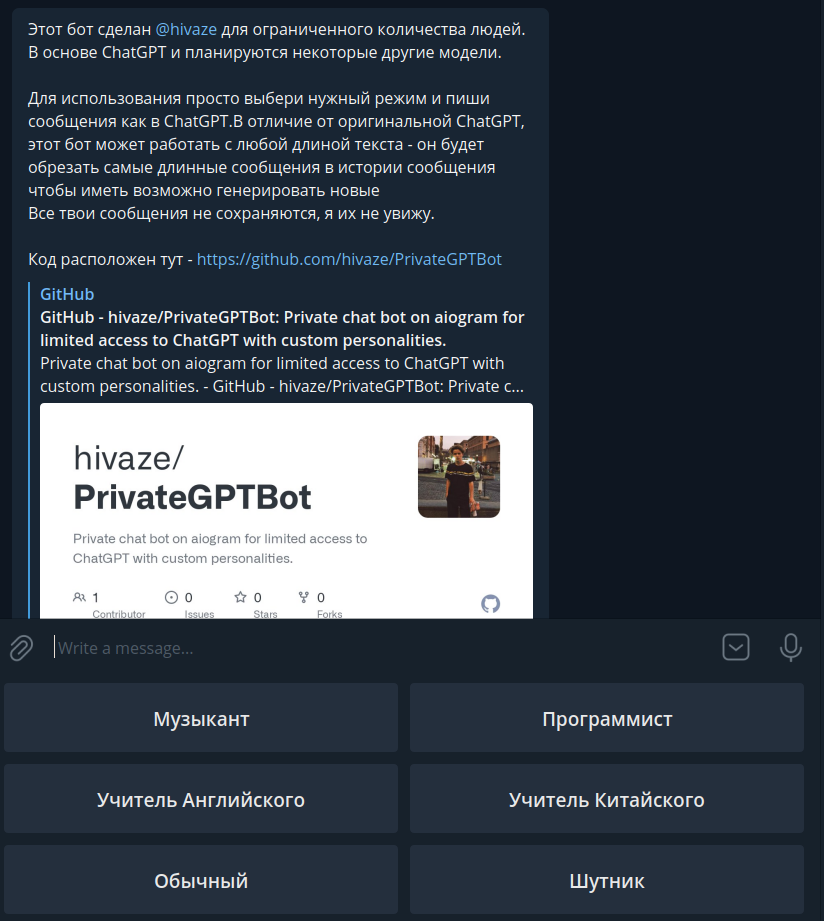
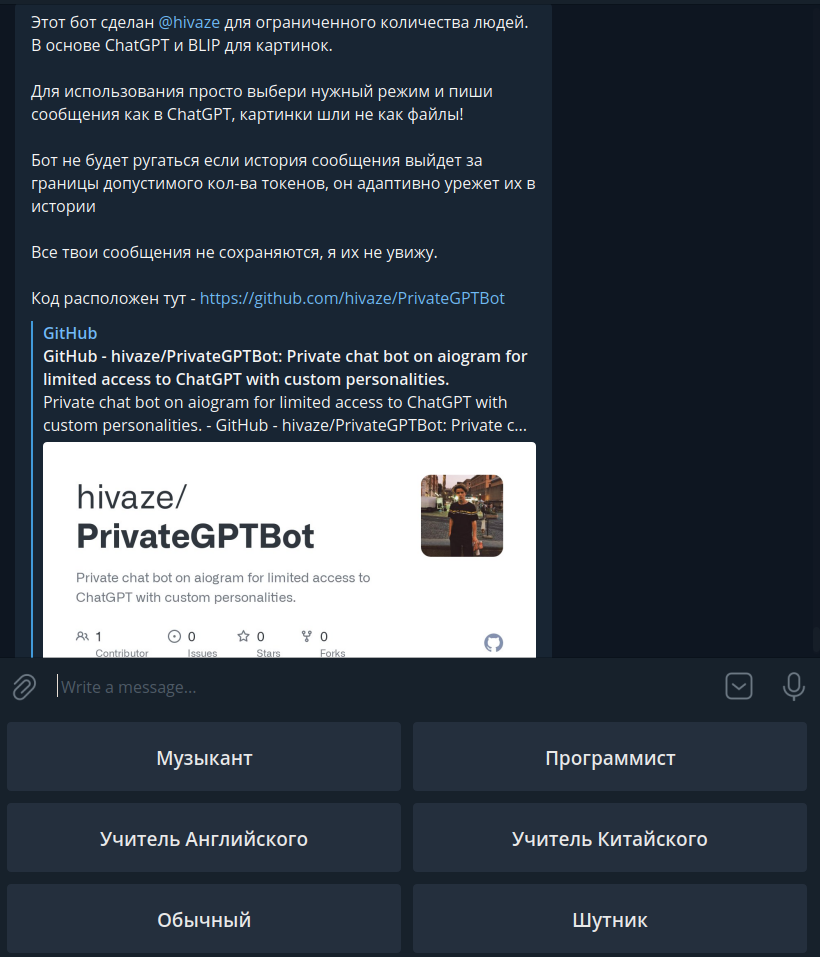
Added messages support! And fixes

diff --git a/app/messages_handler.py b/app/messages_handler.py
@@ -1,9 +1,12 @@
 import asyncio
 import logging
+import tempfile
 
+from PIL import Image
 from aiogram import types
 from aiogram.dispatcher import FSMContext
 
+from app.blip_captions_model import get_images_captions
 from app.bot import dp, CONFIG, PERSONALITIES, UserState, reset_user_state, PERSONALITIES_REPLY_MARKUP, thread_pool
 from app.exceptions_handler import exception_sorry
 from app.open_ai_client import create_message, truncate_user_history, count_tokens
@@ -63,7 +66,7 @@ async def answer(message: types.Message, state: FSMContext, *args, **kwargs):
 
 @dp.message_handler(state=UserState.communication)
 @exception_sorry()
-async def answer(message: types.Message, state: FSMContext, *args, **kwargs):
+async def communication_answer(message: types.Message, state: FSMContext, *args, **kwargs):
     current_data = await state.get_data()
     user_name = message.from_user.username
 
@@ -112,3 +115,43 @@ async def answer(message: types.Message, state: FSMContext, *args, **kwargs):
         logger.debug(f'History of user {message.from_user.username}: {updated_history}')
 
         await state.update_data({'history': updated_history, 'prev_tokens_usage': tokens_usage})
+
+
+@dp.message_handler(state=UserState.communication, content_types=['photo'])
+@exception_sorry()
+async def answer(message: types.Message, state: FSMContext, *args, **kwargs):
+
+    current_data = await state.get_data()
+    user_name = message.from_user.username
+    pers = current_data.get('pers')
+
+    # if len(message.photo) > 3:
+    #     await message.reply("Вы прислали больше одной картинки в сообщении,"
+    #                         " я пока умею работать только с одной картинкой,"
+    #                         " отвечу только на последнюю!")
+
+    file_info = await message.bot.get_file(message.photo[-1].file_id)
+
+    with tempfile.TemporaryDirectory() as tmp_dir:  # temp dir for future support of many photos
+        result = await message.bot.download_file(file_path=file_info.file_path,
+                                                 destination_dir=tmp_dir)
+        result.close()
+        image = Image.open(result.name).convert('RGB')
+
+    image_caption = get_images_captions(image)[0]
+
+    if pers == 'joker' and not message.text:
+        chat_gpt_prompt = f"Create a joke like a meme about the image, it shows: {image_caption}." \
+                          f" Try be brief and post-ironic. Используй русский язык. Не начинай с Когда. "
+    else:
+        chat_gpt_prompt = f'Imagine that I sent you a picture, it shows: {image_caption}. Используй русский язык.'
+        if message.text != '' and message.text is not None:
+            chat_gpt_prompt = chat_gpt_prompt + ' ' + message.text
+    message.text = chat_gpt_prompt
+
+    logger.info(f'User {user_name} sends a picture with size ({image.width}, {image.height})')
+
+    # Debug breaks users privacy here! Disable it in general use!
+    logger.debug(f'Picture from {user_name}, pers: {pers}. Caption: "{image_caption}"')
+
+    await communication_answer(message, state)

diff --git a/app/blip_captions_model.py b/app/blip_captions_model.py
@@ -1,0 +1,32 @@
+import logging
+
+import torch
+from transformers import AutoProcessor, BlipForConditionalGeneration
+
+logger = logging.getLogger(__name__)
+
+device = "cuda" if torch.cuda.is_available() else "cpu"
+
+model_name = "Salesforce/blip-image-captioning-base"
+processor = AutoProcessor.from_pretrained(model_name)
+model = BlipForConditionalGeneration.from_pretrained(model_name).to(device)
+
+logger.debug(f'BLIP model loaded: {model_name}, device: {device}')
+
+if device == 'cuda':
+    model.half()
+
+
+def get_images_captions(images):
+    inputs = processor(images=images, return_tensors="pt").to(device)
+    if device == 'cuda':
+        inputs = inputs.to(torch.half)
+
+    with torch.inference_mode():
+        generated_ids = model.generate(**inputs,
+                                       repetition_penalty=5.0,
+                                       num_beams=4, use_cache=True,
+                                       min_length=15, max_new_tokens=100)
+
+    generated_texts = processor.batch_decode(generated_ids, skip_special_tokens=True)
+    return generated_texts

diff --git a/app/__init__.py b/app/__init__.py
@@ -7,6 +7,7 @@ from pathlib import Path
 
 import app.commands_handler
 import app.messages_handler
+import app.blip_captions_model
 
 Path('logs/').mkdir(exist_ok=True)
 

diff --git a/README.md b/README.md
@@ -1,15 +1,20 @@
 ## Приватный телеграм бот на основе ChatGPT
 
-Бот с несколькими персонажами для доступа по вашему OpenAI ключу к API gpt-3.5 (chatgpt).
+Бот с несколькими персонажами для доступа по вашему OpenAI ключу к API gpt-3.5-turbo (chatgpt). 
+Умеет воспринимать картинки с помощью BLIP (но не документы)
 
-Отличие от оригинальной ChatGPT - он может работать с историей сообщений почти любой длины,
-это сделано за счет настройки объема памяти и чистки контекста - бот немного "подзабывает" (транкейт) большие сообщения в памяти,
-для того чтобы освободить место для новых токенов, но при этом не удаляет старые сообщения полностью.
+### Возможности
+- Имеет вайтлист пользователей для ограниченного доступа
+- Имеет несколько настраиваемых персонажей (system prompt в ChatGPT)
+- Умеет работать с длинной историей сообщений и большими сообщениями,
+за счет адаптивного урезания истории, чтобы влезли новые сообщения
+- Умеет работать с картинками. "Шутник" умеет создавать мемы по ним (примеры ниже)
+- Имеет некоторые настраиваемые сообщения, чтобы было удобнее запускать из коробки
+- Можно запустить в Docker
 
-Используемых фреймворки `aiogram` и `openai` для Python. Еще 2 зависимости: `tiktoken` и `numpy`
+Используемых фреймворки: `aiogram`, `openai`, `transformers` и `torch`
 
-Вы можете настроить все необходимые параметры, включая список разрешенных пользователей в `resources/config.json` \
-Там же должны находиться ключи для телеграма и openai.
+Конфиги находятся в `resources/`
 
 Запуск после установки зависимостей и настройки просто: `python main.py`
 
@@ -20,9 +25,15 @@
 
 ![after_start.png](docs%2Fafter_start.png)
 
-### Пример работы
+### Пример работы шутника
+
+Шутник старается шутить про все что угодно. Кроме того он умеет воспринимать картинки за счет BLIP и последующего перефраза описания картинки ChatGPT
 
 ![joker_example.png](docs%2Fjoker_example.png)
+
+![image_joker_example_2.png](docs%2Fimage_joker_example_2.png)
+
+![image_joker_example_1.png](docs%2Fimage_joker_example_1.png)
 
 ### Вид из терминала
 
